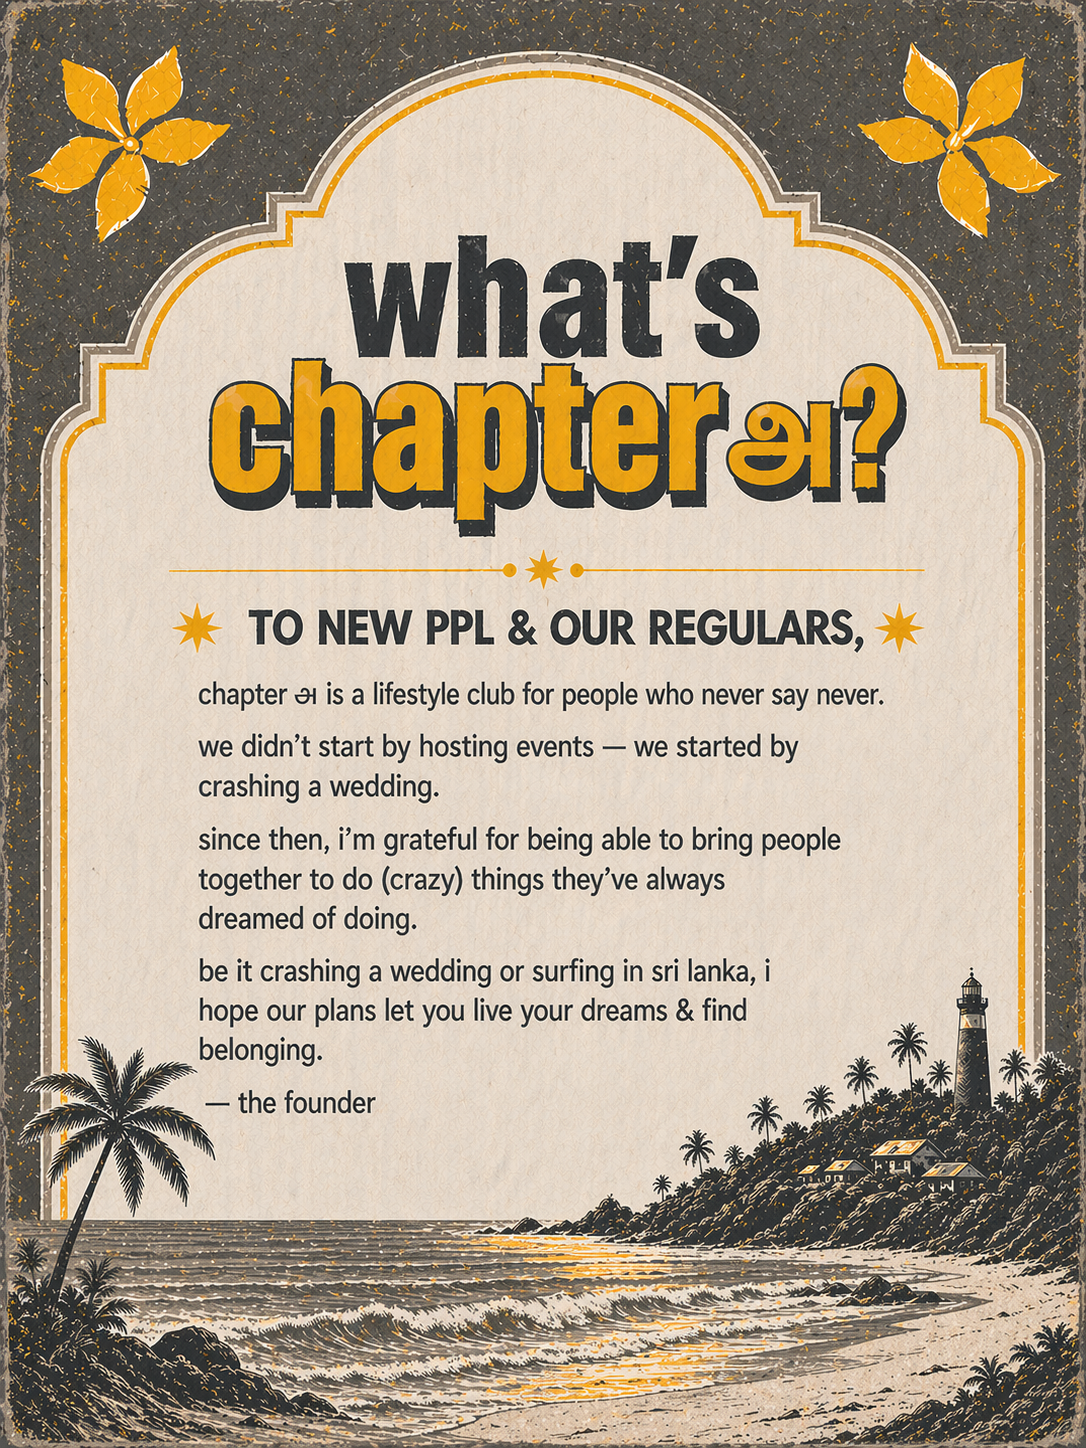
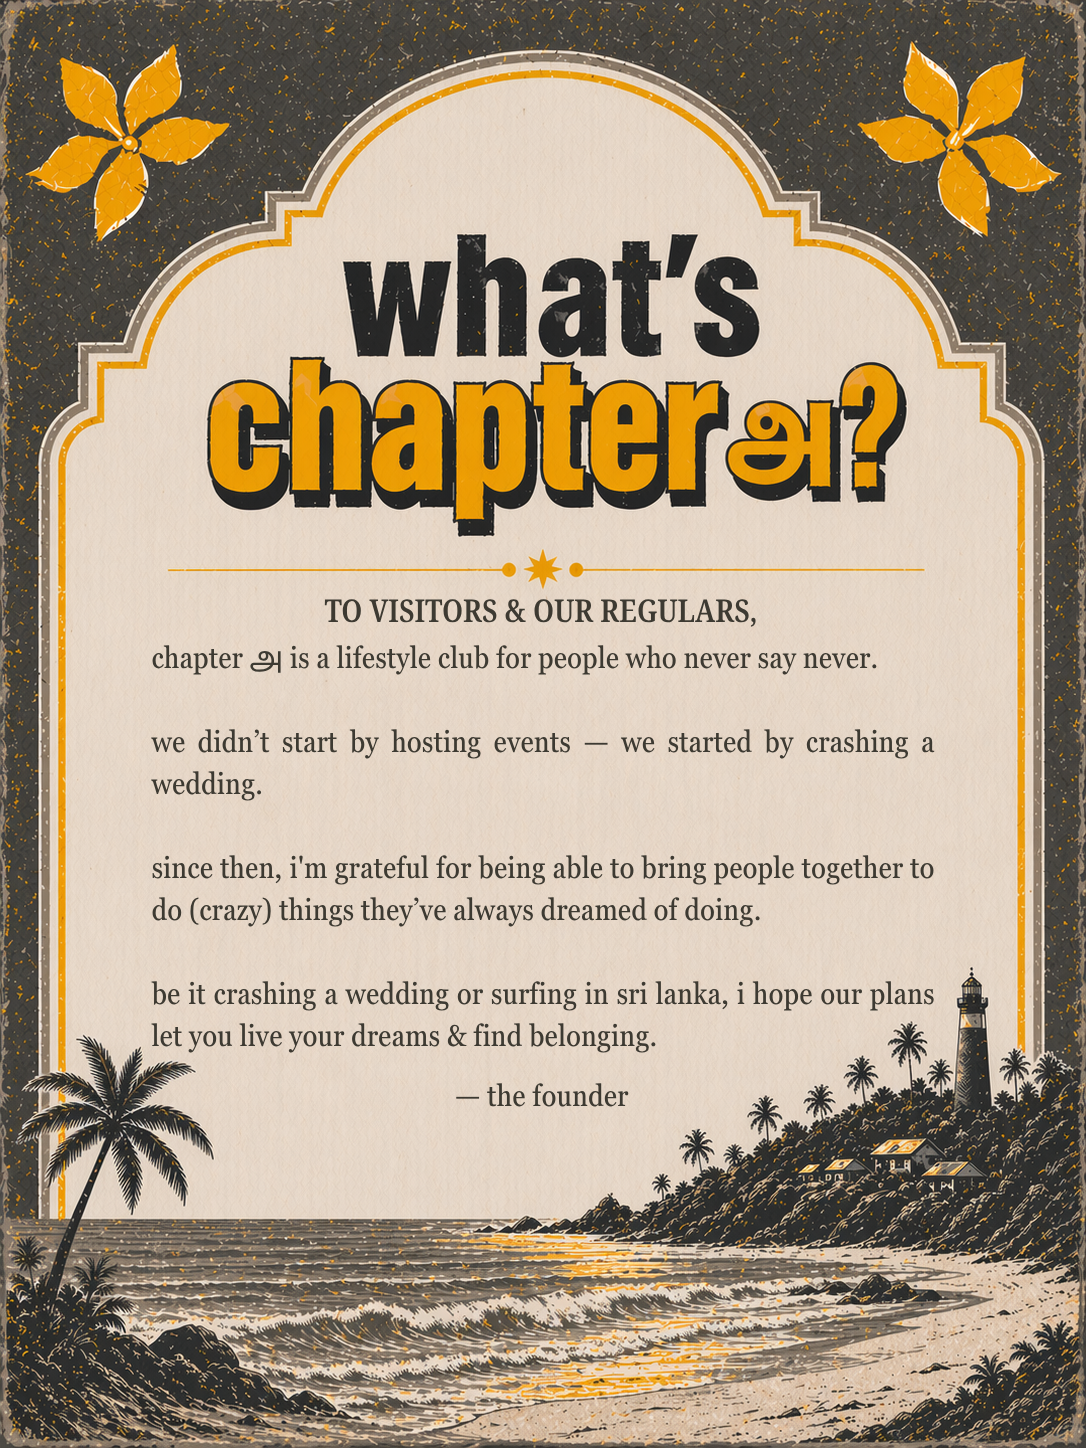
Rename join route to lifestyle and update join poster

Changed region(s): [[0.0, 0.0, 1.0, 1.0], [0.1823, 0.1554, 0.8508, 0.3729]]

diff --git a/src/App.tsx b/src/App.tsx
@@ -819,9 +819,10 @@ export default function App() {
   const [routeSearch, setRouteSearch] = useState(typeof window !== 'undefined' ? window.location.search : '');
   const isAdmin = routePath === '/admin';
   const isPlansPage = routePath === '/plans';
-  const isJoinPage = routePath === '/join';
+  const isLegacyJoinPage = routePath === '/join';
+  const isLifestylePage = routePath === '/lifestyle' || isLegacyJoinPage;
   const hasPreviewParam = routeSearch.includes('preview_event');
-  const [showHomepage, setShowHomepage] = useState(!isAdmin && !hasPreviewParam && !isPlansPage && !isJoinPage);
+  const [showHomepage, setShowHomepage] = useState(!isAdmin && !hasPreviewParam && !isPlansPage && !isLifestylePage);
 
   useEffect(() => {
     if (typeof window === 'undefined') return;
@@ -831,10 +832,23 @@ export default function App() {
   useEffect(() => {
     if (typeof window === 'undefined') return;
     const syncRoute = () => {
+      if (window.location.pathname === '/join') {
+        const nextSearch = window.location.search || '';
+        window.history.replaceState({}, '', `/lifestyle${nextSearch}`);
+        setRoutePath('/lifestyle');
+        setRouteSearch(nextSearch);
+        return;
+      }
       setRoutePath(window.location.pathname);
       setRouteSearch(window.location.search);
     };
     window.addEventListener('popstate', syncRoute);
+    if (window.location.pathname === '/join') {
+      const nextSearch = window.location.search || '';
+      window.history.replaceState({}, '', `/lifestyle${nextSearch}`);
+      syncRoute();
+      return () => window.removeEventListener('popstate', syncRoute);
+    }
     if (window.location.pathname === '/' && !window.location.search.includes('preview_event')) {
       window.history.replaceState({}, '', '/aboutus');
       syncRoute();
@@ -872,7 +886,7 @@ export default function App() {
 
   useEffect(() => {
     if (typeof document === 'undefined') return;
-    const isLetterPage = isJoinPage && !hasPreviewParam;
+    const isLetterPage = isLifestylePage && !hasPreviewParam;
     if (isAdmin || showHomepage || isLetterPage) {
       document.body.style.overflow = '';
       document.documentElement.style.overflow = '';
@@ -885,11 +899,11 @@ export default function App() {
       document.body.style.overflow = '';
       document.documentElement.style.overflow = '';
     };
-  }, [showHomepage, isAdmin, isJoinPage, hasPreviewParam]);
+  }, [showHomepage, isAdmin, isLifestylePage, hasPreviewParam]);
 
   if (isAdmin) return <AdminPanel />;
 
-  if (isJoinPage && !hasPreviewParam) {
+  if (isLifestylePage && !hasPreviewParam) {
     return (
       <>
         <LandscapeBlocker />
